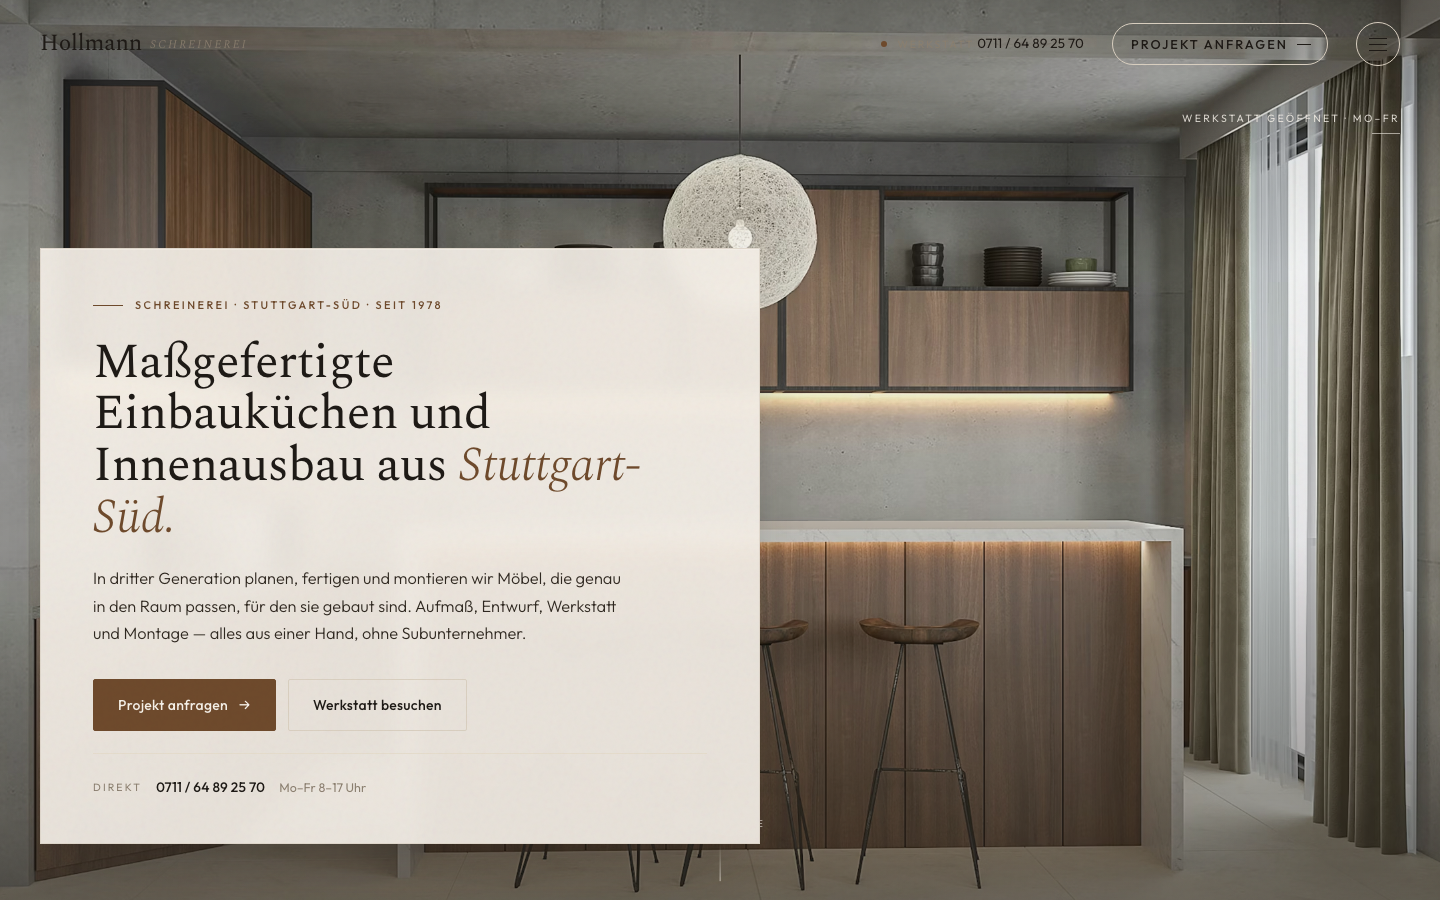
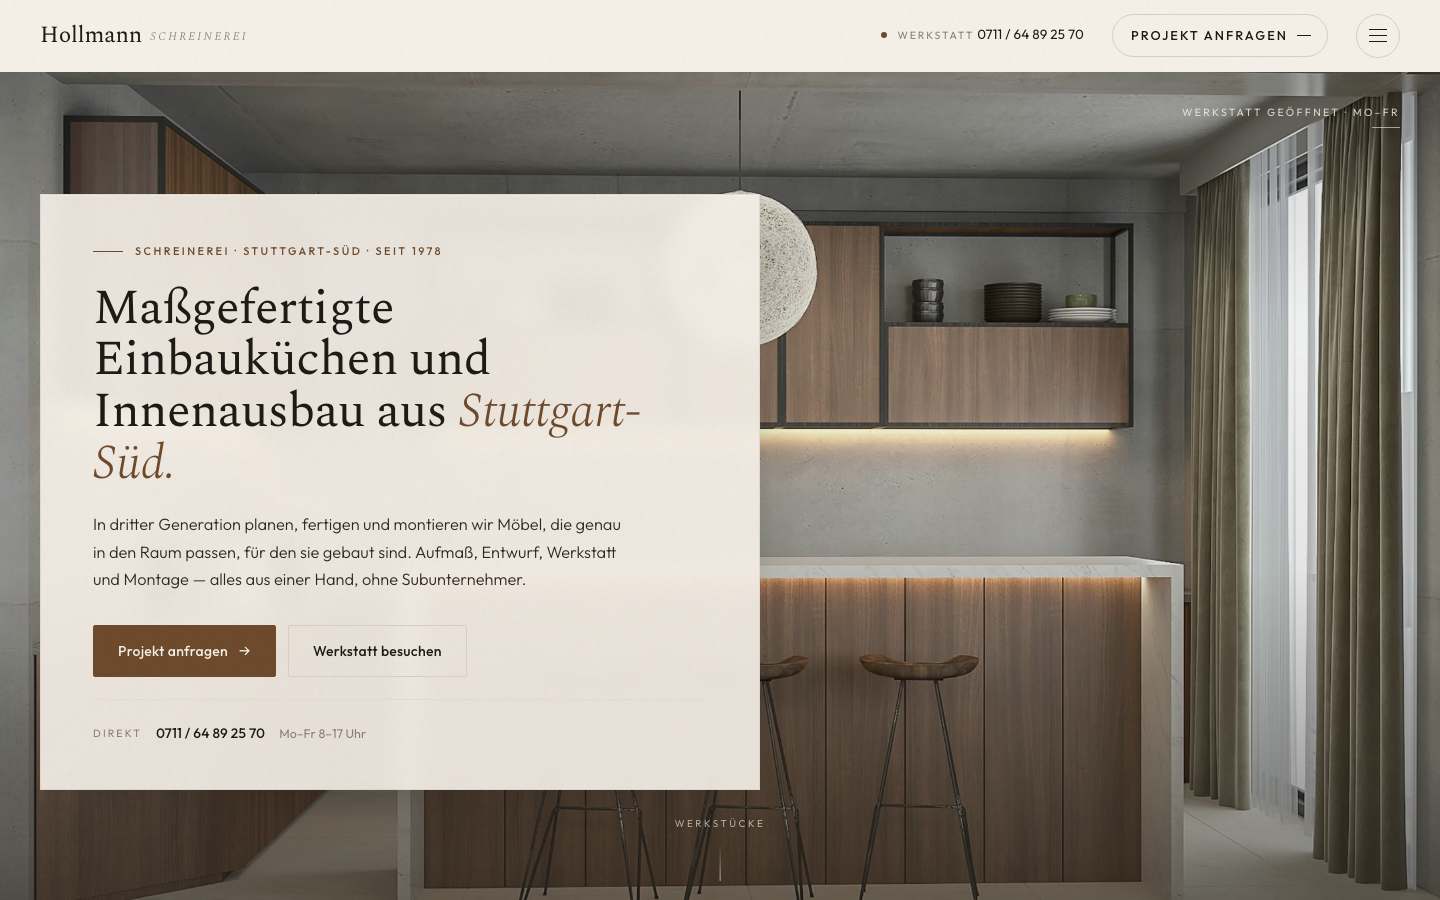
fix: serve showcase static pages and polish Hollmann hero
- src/server.ts: add /showcase static handler with index serving so the
  static template HTML pages are returned instead of falling through to
  the Angular SSR 404 route
- Hollmann template: navbar moved above hero on its own cream band; hero
  card and "Werkstatt geöffnet" meta repositioned with breathing room;
  refreshed homepage thumbnail
- cookie consent: delay subscribe by 2s so the banner doesn't race the
  home hero load animation
- home hero shimmer: add quiet pause between sweeps, soften highlight

diff --git a/public/showcase/schreinerei-hollmann/index.html b/public/showcase/schreinerei-hollmann/index.html
@@ -32,6 +32,8 @@
 
       --font-serif: 'Spectral', 'Cormorant Garamond', Georgia, serif;
       --font-sans:  'Outfit', system-ui, -apple-system, 'Helvetica Neue', sans-serif;
+
+      --nav-h: 72px;
     }
 
     html { scroll-behavior: smooth; }
@@ -46,6 +48,7 @@
       -webkit-font-smoothing: antialiased;
       -moz-osx-font-smoothing: grayscale;
       overflow-x: hidden;
+      padding-top: var(--nav-h);
     }
 
     img { display: block; max-width: 100%; height: auto; }
@@ -201,17 +204,16 @@
     /* ─── Navigation (different from Trattoria) ──────────────────────────── */
     .nav {
       position: fixed; top: 0; left: 0; right: 0; z-index: 100;
-      padding: 22px 40px;
+      height: var(--nav-h);
+      padding: 0 40px;
       display: flex; align-items: center; justify-content: space-between;
-      transition: background 300ms ease, padding 240ms ease, border-color 240ms ease;
+      background: var(--bg);
       border-bottom: 1px solid transparent;
+      transition: border-color 240ms ease, box-shadow 240ms ease;
     }
     .nav.scrolled {
-      background: rgba(245, 240, 232, 0.92);
-      backdrop-filter: blur(14px);
-      -webkit-backdrop-filter: blur(14px);
-      padding: 14px 40px;
-      border-bottom: 1px solid var(--line-soft);
+      border-bottom-color: var(--line-soft);
+      box-shadow: 0 8px 24px -16px rgba(33, 29, 25, 0.18);
     }
 
     .nav-wordmark {
@@ -317,7 +319,7 @@
       position: relative;
       width: 100%;
       max-width: none;
-      min-height: 100dvh;
+      min-height: max(calc(100dvh - var(--nav-h)), 760px);
       overflow: hidden;
       background: var(--bg-deep);
     }
@@ -341,7 +343,7 @@
 
     .hero-top-meta {
       position: absolute;
-      top: 110px;
+      top: 32px;
       right: 40px;
       z-index: 3;
       display: flex; flex-direction: column; align-items: flex-end;
@@ -360,7 +362,7 @@
     .hero-card {
       position: absolute;
       left: 40px;
-      bottom: 56px;
+      bottom: 110px;
       z-index: 4;
       max-width: 720px;
       background: rgba(245, 240, 232, 0.92);
@@ -1500,10 +1502,11 @@
     }
 
     @media (max-width: 880px) {
+      :root { --nav-h: 64px; }
+
       .container, .container-wide, .container-narrow { padding: 0 22px; }
 
-      .nav { padding: 18px 22px; }
-      .nav.scrolled { padding: 12px 22px; }
+      .nav { padding: 0 22px; }
       .nav-phone-inline { display: none; }
       .nav-cta { display: none; }
       .nav-burger { display: inline-flex; }
@@ -1544,14 +1547,14 @@
         color: var(--text-muted);
       }
 
-      .hero { min-height: 96dvh; }
+      .hero { min-height: max(calc(96dvh - var(--nav-h)), 640px); }
       .hero-card {
-        left: 16px; right: 16px; bottom: 28px;
+        left: 16px; right: 16px; bottom: 36px;
         padding: 30px 26px 30px;
         max-width: none;
       }
       .hero-card-title { font-size: 1.65rem; }
-      .hero-top-meta { top: 88px; right: 20px; }
+      .hero-top-meta { top: 20px; right: 20px; }
 
       .werkstuecke { padding: 90px 0 20px; }
       .werk-intro { grid-template-columns: 1fr; gap: 28px; padding-bottom: 50px; }

diff --git a/src/app/pages/home/home.component.css b/src/app/pages/home/home.component.css
@@ -58,10 +58,31 @@
   100% { filter: drop-shadow(0 0 20px rgba(34, 211, 238, 0.5)) drop-shadow(0 0 55px rgba(103, 232, 249, 0.2)); }
 }
 
-/* Shimmer: single diagonal sweep across the text */
+/* Shimmer: single diagonal sweep across the text.
+   Holds off-screen for ~35% of the cycle, sweeps over ~35%, holds past for ~30% —
+   gives a long quiet pause between passes so the light feels intentional, not constant. */
 @keyframes heroTextShimmer {
-  0%   { background-position: -300% 0; }
-  100% { background-position: 300% 0; }
+  0%, 35%   { background-position: -300% 0; }
+  70%, 100% { background-position: 300% 0; }
+}
+
+/* Glow fade-in: from nothing to a soft cyan halo over 1.2s. */
+@keyframes heroEnergyGlowIn {
+  0%   { filter: drop-shadow(0 0 0px rgba(34, 211, 238, 0)); }
+  100% { filter: drop-shadow(0 0 20px rgba(34, 211, 238, 0.45))
+                 drop-shadow(0 0 50px rgba(103, 232, 249, 0.22)); }
+}
+
+/* Glow pulse: very subtle breathing once the glow is up. */
+@keyframes heroEnergyPulse {
+  0%, 100% {
+    filter: drop-shadow(0 0 20px rgba(34, 211, 238, 0.45))
+            drop-shadow(0 0 50px rgba(103, 232, 249, 0.22));
+  }
+  50% {
+    filter: drop-shadow(0 0 28px rgba(34, 211, 238, 0.6))
+            drop-shadow(0 0 70px rgba(103, 232, 249, 0.3));
+  }
 }
 
 .hero-line2-text {
@@ -77,8 +98,6 @@
   -webkit-background-clip: text;
   background-clip: text;
   color: transparent;
-  animation:
-    heroTextLiquidFlow 7s ease-in-out 0.85s infinite;
   position: relative;
   display: inline-block;
 }
@@ -90,16 +109,29 @@
   background: linear-gradient(
     110deg,
     transparent 35%,
-    rgba(255, 255, 255, 0.45) 50%,
+    rgba(255, 255, 255, 0.22) 50%,
     transparent 65%
   );
   background-size: 300% 100%;
-  animation: heroTextShimmer 6s ease-in-out 1.1s infinite;
   pointer-events: none;
   -webkit-background-clip: text;
   background-clip: text;
   color: transparent;
   -webkit-text-fill-color: transparent;
+}
+
+/* Energy-flow modifier — applied via JS after the letter-cascade completes.
+   Runs liquid-color flow + sweep + glow pulse together. The 1.2s glow-in and
+   the infinite pulse share filter; the pulse picks up exactly where glow-in lands. */
+.hero-line2-text.energy-flow {
+  animation:
+    heroTextLiquidFlow 7s ease-in-out infinite,
+    heroEnergyGlowIn 1.2s ease-in forwards,
+    heroEnergyPulse 4s ease-in-out 1.2s infinite;
+}
+
+.hero-line2-text.energy-flow::after {
+  animation: heroTextShimmer 8s ease-in-out 0.6s infinite;
 }
 
 /* ─── Hero Typography Animation ────────────────────────────────────────── */
@@ -1316,5 +1348,17 @@
     filter: none;
     transition: none;
     animation: none;
+  }
+
+  /* Energy flow: kill the sweep and pulse, keep a static cyan halo so the
+     effect still reads as "alive" without any motion. */
+  .hero-line2-text.energy-flow {
+    animation: none;
+    filter: drop-shadow(0 0 20px rgba(34, 211, 238, 0.45))
+            drop-shadow(0 0 50px rgba(103, 232, 249, 0.22));
+  }
+  .hero-line2-text.energy-flow::after {
+    animation: none;
+    opacity: 0;
   }
 }

diff --git a/src/app/pages/home/home.component.ts b/src/app/pages/home/home.component.ts
@@ -44,6 +44,21 @@ export class HomeComponent implements AfterViewInit {
 
   ngAfterViewInit() {
     if (isPlatformBrowser(this.platformId)) {
+      // Energy-flow trigger: wait for the last letter of "Kunden bringen" to finish
+      // animating in, then add the modifier class 700ms later. Fallback timer covers
+      // the case where the element isn't in the DOM yet (shouldn't happen, but cheap).
+      const activateEnergyFlow = () => {
+        setTimeout(() => {
+          document.querySelector('.hero-line2-text')?.classList.add('energy-flow');
+        }, 700);
+      };
+      const lastLetter = document.querySelector('.hero-line2-text .hero-letter:last-child');
+      if (lastLetter) {
+        lastLetter.addEventListener('animationend', activateEnergyFlow, { once: true });
+      } else {
+        setTimeout(activateEnergyFlow, 2100);
+      }
+
       setTimeout(() => {
         // ── Helper: single-element observer ──────────────────────────────────
         const observe = (el: Element | null, options: IntersectionObserverInit = {}) => {

diff --git a/src/app/components/cookie-consent/cookie-consent.component.ts b/src/app/components/cookie-consent/cookie-consent.component.ts
@@ -24,14 +24,15 @@ export class CookieConsentComponent implements OnInit, OnDestroy {
   ngOnInit(): void {
     if (!isPlatformBrowser(this.platformId)) return;
 
-    // Defer past SSR hydration to ensure the banner renders correctly on first visit.
-    // Without this, Angular hydration keeps the server-rendered `visible = false` state
-    // and the BehaviorSubject replay fires before change detection can update the DOM.
+    // Delay also covers the SSR hydration race: without a deferred subscribe, Angular
+    // hydration keeps the server-rendered `visible = false` state and the BehaviorSubject
+    // replay fires before change detection can update the DOM. The longer delay additionally
+    // lets the home hero load-animation finish (~1.9s) before the banner slides in.
     setTimeout(() => {
       this.sub = this.consent.status$.subscribe((status: ConsentStatus) => {
         this.visible = status === 'pending';
       });
-    }, 0);
+    }, 2000);
   }
 
   ngOnDestroy(): void {

diff --git a/src/server.ts b/src/server.ts
@@ -24,6 +24,17 @@ app.use(
   }),
 );
 
+// ── Showcase templates — standalone static HTML pages ─────────
+// These live in public/showcase/<slug>/index.html and are NOT Angular routes.
+// Needs index: 'index.html' so /showcase/<slug>/ resolves the directory's index.
+app.use(
+  '/showcase',
+  express.static(resolve(browserDistFolder, 'showcase'), {
+    maxAge: '1y',
+    index: 'index.html',
+  }),
+);
+
 // ── All other routes → Angular SSR ────────────────────────────
 app.use('/**', (req, res, next) => {
   angularApp
